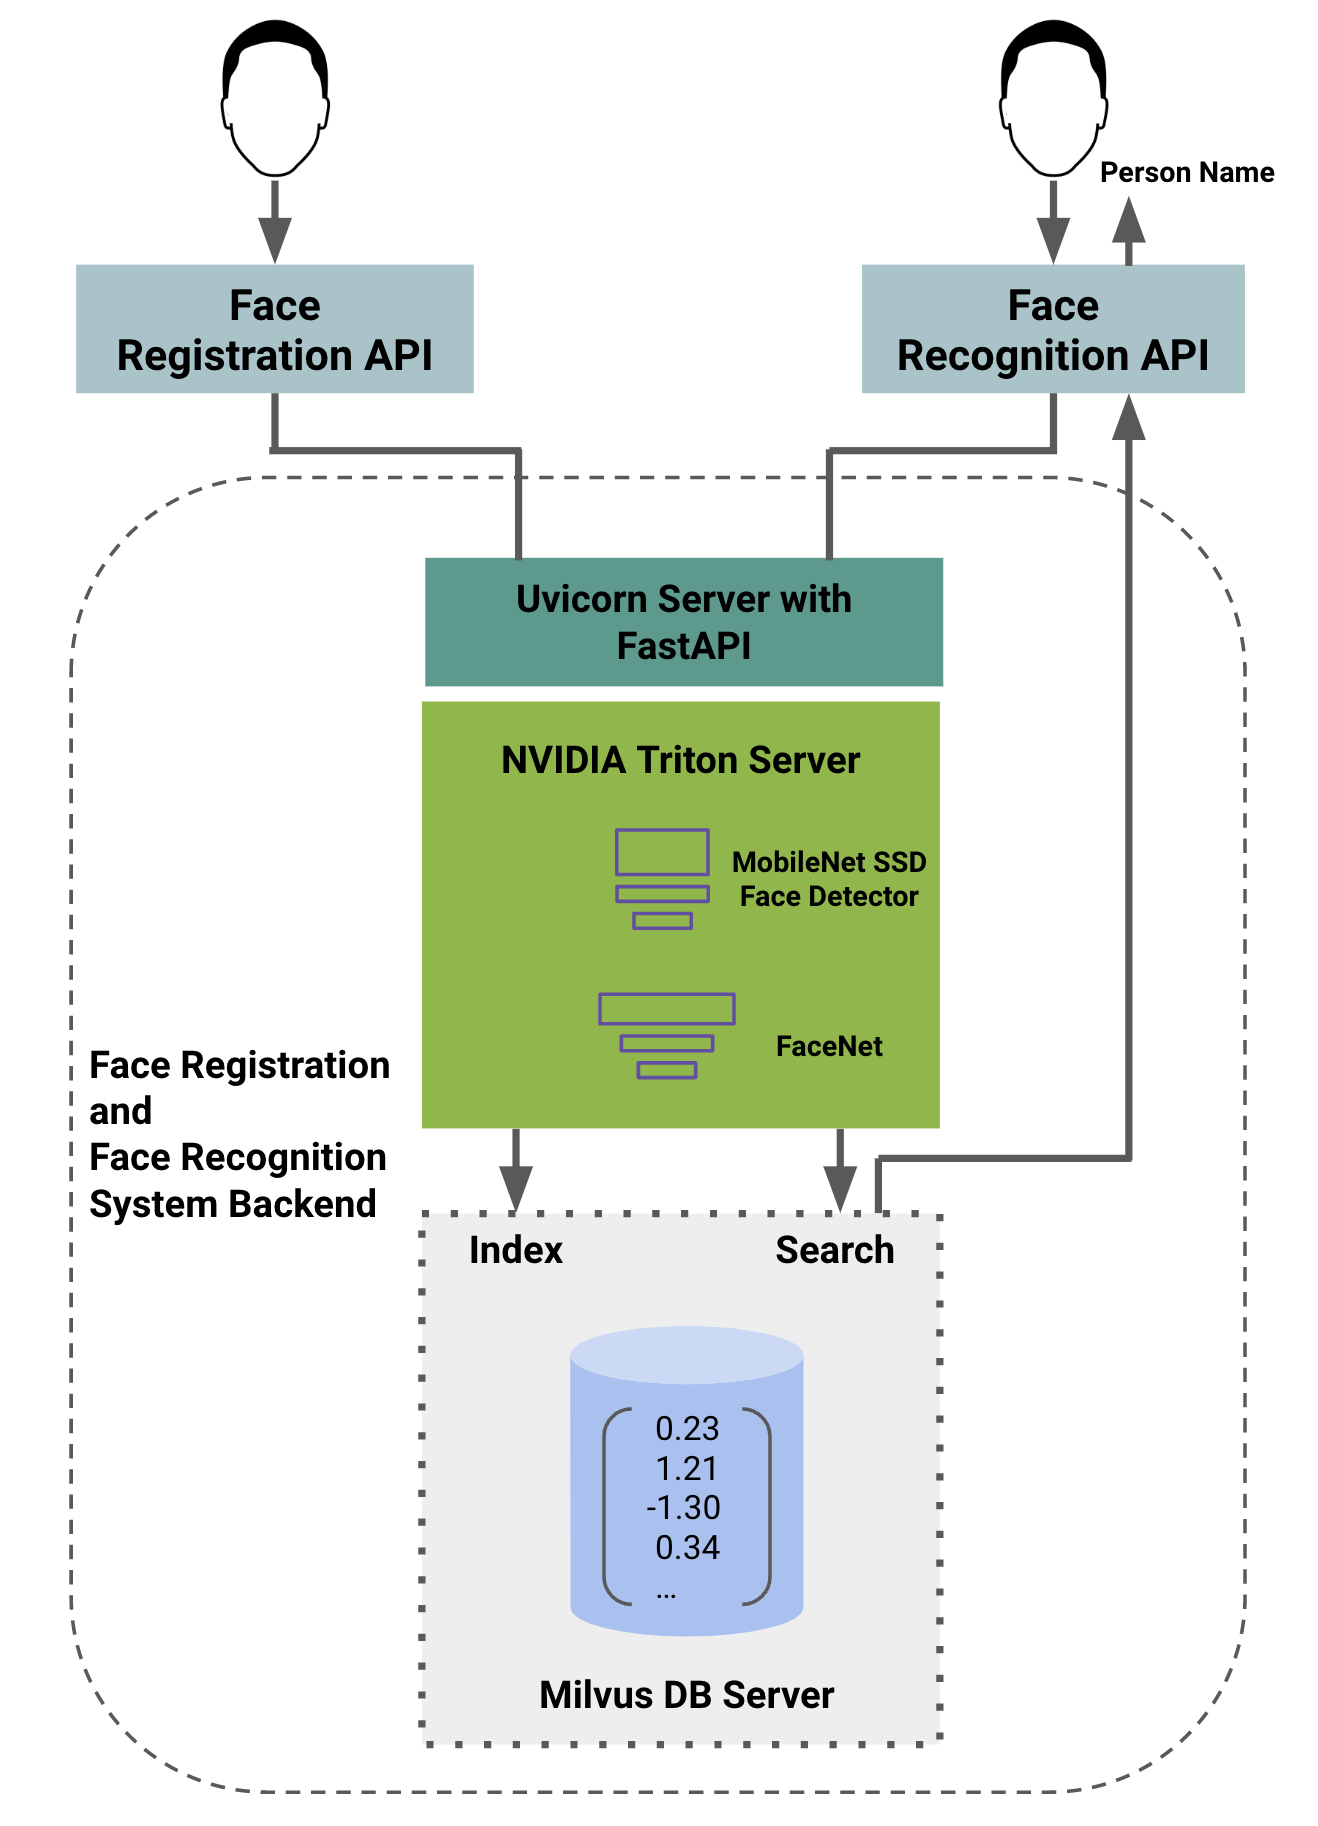
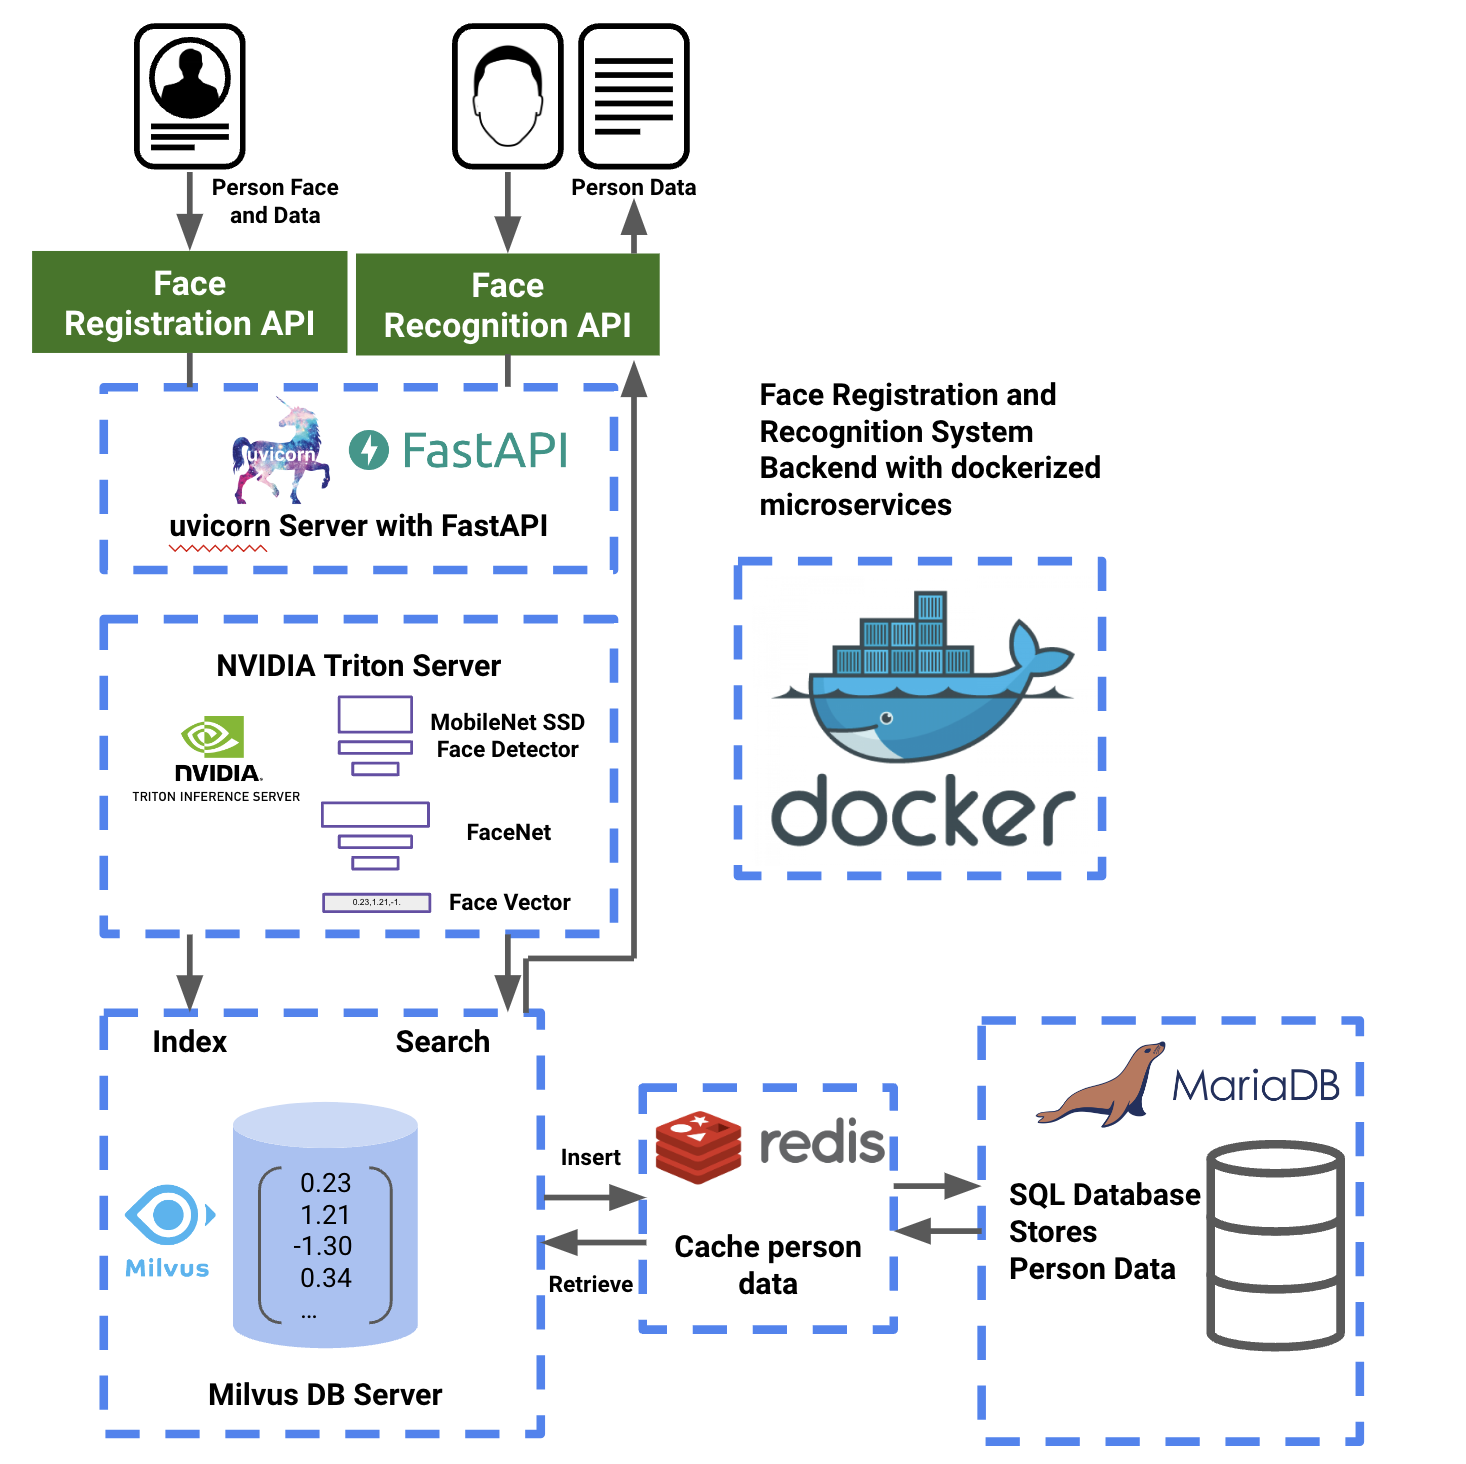
Update proj desc & flow

diff --git a/README.md b/README.md
@@ -1,10 +1,10 @@
-# Face Registration and Recognition Backend System with uvicorn, fastapi, milvus, redis and mysql
+# Person Face Registration and Recognition Backend System with uvicorn, fastapi, milvus, redis and mysql
 
 ![Docker](https://img.shields.io/badge/docker-%230db7ed.svg?style=for-the-badge&logo=docker&logoColor=white)![FastAPI](https://img.shields.io/badge/FastAPI-005571?style=for-the-badge&logo=fastapi)
 
 Tested with `docker-compose version 1.29.2`.
 
-Backend system for detecting and saving a person's face from an image into a vectorized milvus database for running facial recognition on images along with saving the person's data in a redis-cached mysql table for later retrieval. (Note: currently only one face per image is supported for both face registration and lookup).
+Backend system for detecting and saving a person's face from images into a vectorized milvus database to run facial recognition on images along with saving the person's data in a redis-cached mysql table for later retrieval. (Note: The system currently only supports one face per image for both face registration and lookup).
 
 <img src="app_docker_compose/app/static/project_flow.png" width="40%" />
 
